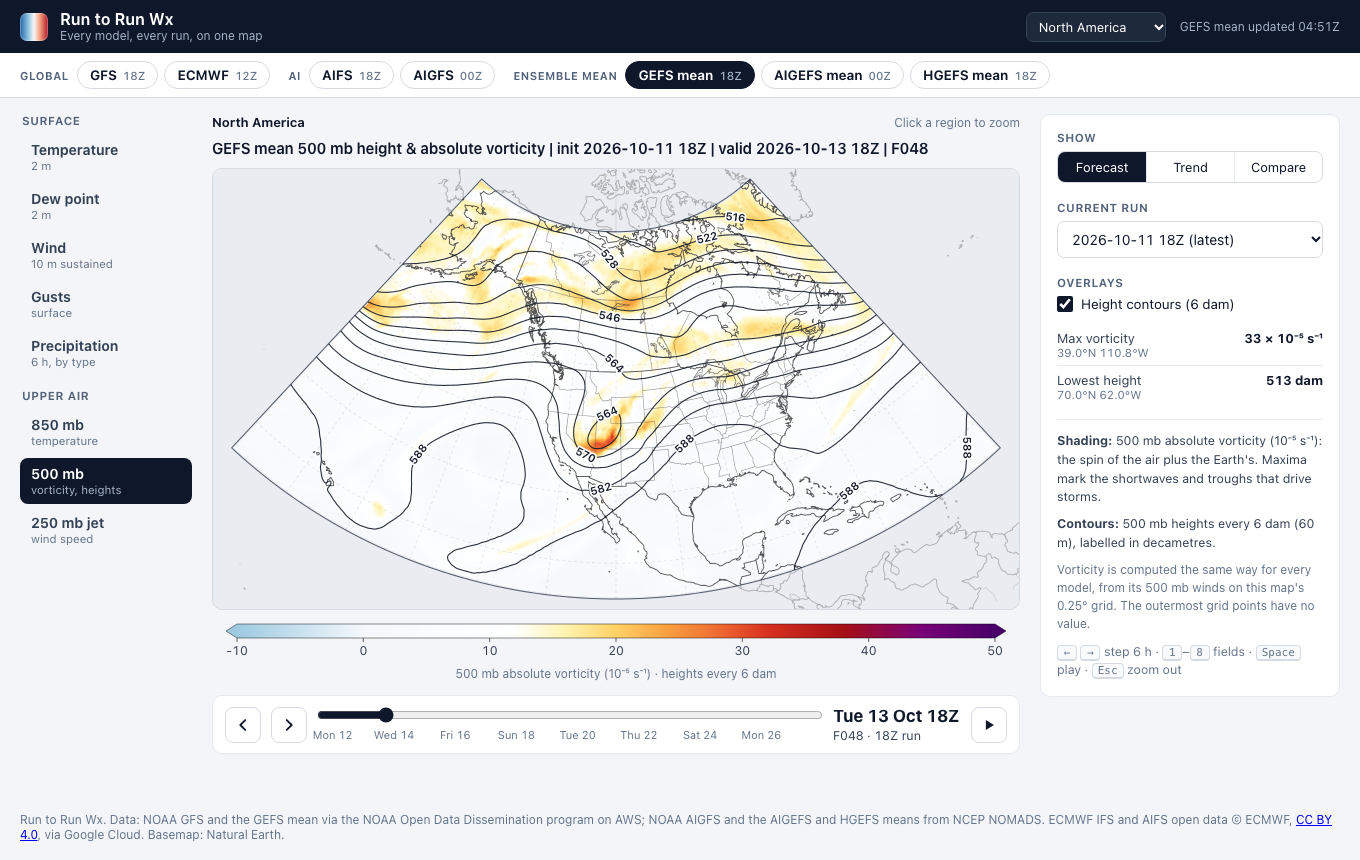
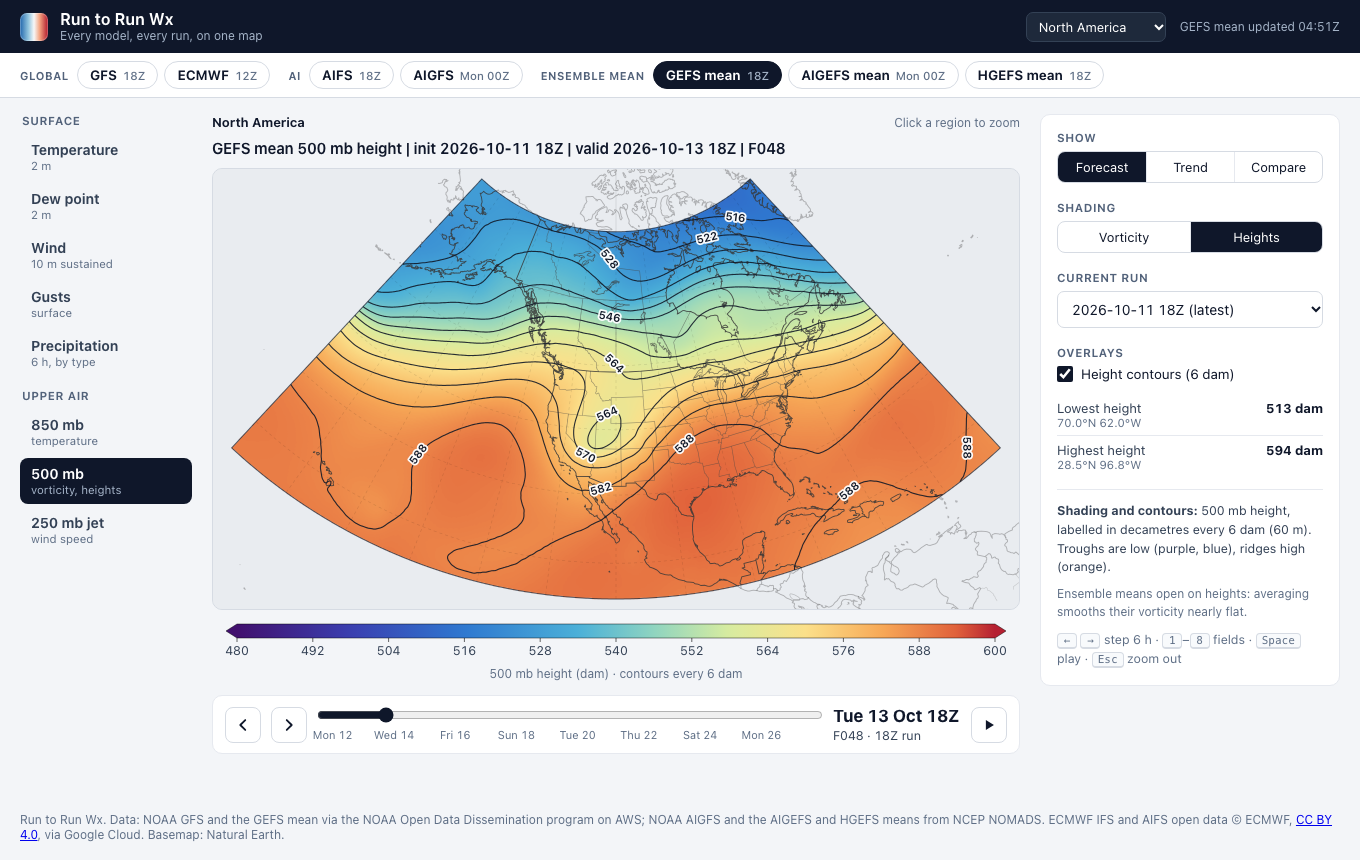
Bring docs up to date after M1, and refresh the screenshots
- README and the build plan's setup table: opening Workers & Pages once
  creates the workers.dev subdomain a Worker's cron needs; M1 setup ticked.
- adding-a-field.md: extreme()'s filter for region-limited stats,
  sidebar variables vs. an Options shading, the measured palette rule,
  and keeping the late-run rule in step with the scheduler.
- README's test list covers M1 and the scheduler.
- e2e: the clock sits just after the data's newest run so screenshots
  show fresh chips; the compare-run test reads runs from the manifests,
  so it passes on a full local dataset as well as CI's.
- Screenshots regenerated (new type palette, ensemble-mean heights).

diff --git a/web/e2e/viewer.spec.ts b/web/e2e/viewer.spec.ts
@@ -27,6 +27,13 @@ function trendHour(want: number, lag: number): number {
 }
 
 /** Collect anything that would show up as a problem in the console or network. */
+// The browser's clock sits just after the data's newest run, so model chips read as
+// fresh (today's run, not amber) whatever day the data was built: the screenshots
+// show the site as visitors see it. Tests about lateness set their own time.
+test.beforeEach(async ({ page }) => {
+  await page.clock.setFixedTime(new Date(initOf(manifest.latest).getTime() + 2 * 3600e3));
+});
+
 function watchForErrors(page: Page): string[] {
   const errors: string[] = [];
   page.on("console", (m) => {
@@ -611,28 +618,38 @@ test("compare mode shows two models side by side and their difference", async ({
 
 test("compare picks the other model's run, and says when the two runs are far apart", async ({ page }) => {
   const errors = watchForErrors(page);
-  // GFS 12Z at F024 beside ECMWF's own 12Z: same cycle
-  await page.goto("/?v=h500&run=2026101112&f=24&mode=compare&c=ecmwf&cv=side");
+  // Runs come from the manifests, so this works on the CI dataset and on a full local one
+  const gfs: string[] = manifestOf("gfs").runs.map((r: { id: string }) => r.id);
+  const ecmwf: string[] = manifestOf("ecmwf").runs.map((r: { id: string }) => r.id);
+  const fmt = (id: string) => `${id.slice(0, 4)}-${id.slice(4, 6)}-${id.slice(6, 8)} ${id.slice(8)}Z`;
+
+  // A GFS run beside ECMWF's own run of the same cycle
+  const twin = gfs.find((id) => ecmwf.includes(id))!;
+  await page.goto(`/?v=h500&run=${twin}&f=24&mode=compare&c=ecmwf&cv=side`);
   await ready(page, "forecast", "h500");
   await page.locator("#crun").selectOption("same");
   await ready(page, "forecast", "h500");
   await expect(page).toHaveURL(/crun=same/);
-  await expect(page.locator("#title-b")).toContainText("ECMWF · init 2026-10-11 12Z · F024");
-  // (The banner is the pinned link's "newer run available" note, not an age warning)
+  await expect(page.locator("#title-b")).toContainText(`ECMWF · init ${fmt(twin)} · F024`);
+  // (Any banner is a pinned link's "newer run available" note, not an age warning)
   await expect(page.locator("#banner")).not.toContainText("older than");
 
-  // GFS 18Z has no ECMWF twin (00/12Z only): the banner says why
-  await page.locator("#run").selectOption("2026101118");
+  // A 06/18Z GFS run has no ECMWF twin (00/12Z only): the banner says why
+  const offCycle = gfs.find((id) => +id.slice(8) % 12 !== 0)!;
+  await page.locator("#run").selectOption(offCycle);
   await ready(page, "forecast", "h500");
   await expect(page.locator("#banner")).toContainText("ECMWF has no frame valid");
-  await expect(page.locator("#banner")).toContainText("it has no 18Z run");
+  await expect(page.locator("#banner")).toContainText(`it has no ${offCycle.slice(8)}Z run`);
 
-  // A day-old ECMWF beside today's GFS: allowed, but flagged
-  await page.goto("/?v=h500&f=12&mode=compare&c=ecmwf&cv=diff&crun=2026101100");
+  // An ECMWF run a day or more older than GFS's latest: allowed, but flagged
+  const hours = (a: string, b: string) => (initOf(a).getTime() - initOf(b).getTime()) / 3600e3;
+  const old = ecmwf.find((id) => hours(gfs[0], id) >= 24 && hours(gfs[0], id) <= 36)!;
+  const f = hours(gfs[0], old) <= 24 ? 12 : 0;
+  await page.goto(`/?v=h500&f=${f}&mode=compare&c=ecmwf&cv=diff&crun=${old}`);
   await ready(page, "delta", "h500");
-  await expect(page.locator("#crun")).toHaveValue("2026101100");
+  await expect(page.locator("#crun")).toHaveValue(old);
   await expect(page.locator("#banner")).toHaveText(
-    "ECMWF's run is 24 h older than GFS's (GFS 2026-10-12 00Z, ECMWF 2026-10-11 00Z).",
+    `ECMWF's run is ${hours(gfs[0], old)} h older than GFS's (GFS ${fmt(gfs[0])}, ECMWF ${fmt(old)}).`,
   );
   // A picked run belongs to its model: changing model goes back to the newest
   await page.locator("#cmp").selectOption({ label: "AIFS" });

diff --git a/README.md b/README.md
@@ -207,7 +207,9 @@ Do these once:
    - Create a GitHub App (**Settings → Developer settings → GitHub Apps → New**) with the webhook
      off and repository permissions **Actions: read and write** and **Issues: read and write**.
      Note its App ID, generate a private key, and install it on this repository only.
-   - In Cloudflare, create an API token from the **Edit Cloudflare Workers** template.
+   - In Cloudflare, create an API token from the **Edit Cloudflare Workers** template, and open
+     **Workers & Pages** once: that creates the account's `workers.dev` subdomain, without which
+     Cloudflare won't set the Worker's cron (the Worker itself gets no public URL).
    - Add the repository secrets `CLOUDFLARE_API_TOKEN`, `SCHEDULER_APP_ID` and `SCHEDULER_APP_KEY`
      (the downloaded `.pem`, pasted whole). The account id is `R2_ACCOUNT_ID`.
    - **Actions → Scheduler → Run workflow** deploys it. Later deploys happen when `scheduler/` or
@@ -474,12 +476,15 @@ and the model files into the frontend.
 - **vitest** (`web/tests`):
   - the shared alignment and Δ vectors
   - decoding the shared Python-encoded frame fixture
-  - palettes and tick steps
+  - palettes and tick steps, and the precipitation-type palette's color distances (CIELAB ΔE,
+    with deuteranopia simulated)
+  - late-run chips: the run's day, and when the next run counts as late
   - barb geometry and local north
   - pressure centers (including plateaus and double maxima)
   - precipitation shading without interpolating type
   - every view in every mode and variable, built from synthetic fields, and the Fields sidebar list
-  - URL state, including old links (no `m`, no `v`, Phase 1's `f`)
+  - URL state, including old links (no `m`, no `v`, Phase 1's `f`), unpinned latest runs, the
+    compared model's run (`crun`), and the remembered last view
   - regions: the config, one hit area per state, point-in-region lookups, region-limited stats
 - **Playwright** (`web/e2e`), against the production build and real pipeline output (in CI, the
   small dataset from `make e2e-data`):
@@ -492,11 +497,20 @@ and the model files into the frontend.
     AIGFS or HGEFS falls back within its group
   - old links rewritten with a valid time
   - clicking a region and zooming out with <kbd>Esc</kbd>, with no frame requests or re-render
-  - compare mode, side by side and as a difference
+  - compare mode, side by side and as a difference; picking the other model's run (same cycle, a
+    missing cycle, a day-old run with its age banner)
+  - a bare URL opening 500 mb over Mainland US, then the visitor's last view
+  - late-run chips under a fixed clock; ensemble means opening 500 mb on heights, and a picked
+    shading sticking across models
   - the unavailable states, the hover readout, pinned links, field switching, and the older-run
     overlay
   - a 375 px phone: no overflow, bottom sheets, the pinned scrubber, tap-to-focus (screenshot)
-  - writes the screenshots in `docs/`
+  - writes the screenshots in `docs/`, with the clock set just after the data's newest run so the
+    chips read as fresh
+- **scheduler** (`scheduler/tests`, vitest): when each product's next cycle is due, when to
+  dispatch (behind, not running, not started in the last 30 minutes), opening and closing stale-data
+  issues, a whole tick against a fake GitHub and fake manifests, the installation-token cache, and
+  the App key's PKCS#1 → PKCS#8 wrapping and JWT (checked against Node's crypto)
 
 ## Credits
 

diff --git a/docs/build-plan.md b/docs/build-plan.md
@@ -67,9 +67,9 @@ are done (2026-10-11).
 | Before the Phase 3 push | ✓ Done 2026-10-12: the e2e fixture release [`e2e-fixtures-2026101200`](https://github.com/ChristopherWard13/Weather-Data-Viz/releases/tag/e2e-fixtures-2026101200) (`e2e-fixtures.tar.gz`, SHA-256 pinned in the `Makefile`). A new bundle means a new release and tag |
 | Before the Phase 3 products go live | ✓ Done 2026-10-12: a one-off NOMADS probe passed on a GitHub runner, then was deleted |
 | After the Phase 3 push | ✓ Done 2026-10-12: **Actions → AIGFS / GEFS mean / AIGEFS mean / HGEFS mean → Run workflow** once each; all four filled their 9-run windows in R2 |
-| Phase 3.5, M1 (scheduler) | Create a **GitHub App** (GitHub → Settings → Developer settings → GitHub Apps → New): any name (e.g. `runtorunwx-scheduler`), homepage `https://runtorunwx.com`, webhook **off**, repository permissions **Actions: read and write** and **Issues: read and write**, installable only on this account. Note its **App ID**, generate a **private key** (a `.pem` downloads), then **Install App** on this repository only |
-| Phase 3.5, M1 (scheduler) | In Cloudflare, create an **API token** from the "Edit Cloudflare Workers" template, limited to this account |
-| Phase 3.5, M1 (scheduler) | Add GitHub Actions secrets: `CLOUDFLARE_API_TOKEN`, `SCHEDULER_APP_ID`, and `SCHEDULER_APP_KEY` (the whole `.pem`, pasted as downloaded). The account id is the existing `R2_ACCOUNT_ID`. Then **Actions → Scheduler → Run workflow** once to deploy the Worker |
+| Phase 3.5, M1 (scheduler) | ✓ Done 2026-10-12. Create a **GitHub App** (GitHub → Settings → Developer settings → GitHub Apps → New): any name (e.g. `runtorunwx-scheduler`), homepage `https://runtorunwx.com`, webhook **off**, repository permissions **Actions: read and write** and **Issues: read and write**, installable only on this account. Note its **App ID**, generate a **private key** (a `.pem` downloads), then **Install App** on this repository only |
+| Phase 3.5, M1 (scheduler) | ✓ Done 2026-10-12. In Cloudflare, create an **API token** from the "Edit Cloudflare Workers" template, limited to this account. Open **Workers & Pages** once, which creates the account's `workers.dev` subdomain: without it Cloudflare refuses to set a Worker's cron |
+| Phase 3.5, M1 (scheduler) | ✓ Done 2026-10-12. Add GitHub Actions secrets: `CLOUDFLARE_API_TOKEN`, `SCHEDULER_APP_ID`, and `SCHEDULER_APP_KEY` (the whole `.pem`, pasted as downloaded). The account id is the existing `R2_ACCOUNT_ID`. Then **Actions → Scheduler → Run workflow** once to deploy the Worker |
 | Phase 6 | Commit and push the `Forecast-Fantasy-League` repo, whose venue list Phase 6 reads |
 
 ## Decisions at a glance

diff --git a/docs/adding-a-field.md b/docs/adding-a-field.md
@@ -399,8 +399,16 @@ checked 2026-10-12. See the build plan's "NOAA AI and ensemble sources".
   names in compare mode) rather than hard-coded words.
 - **Stats follow the region in focus.** Pass `inp` to `extreme(values, inp,
   sign)`: it searches the focused region's box (`inp.focus`), or the whole
-  grid at North America. Contours, centers and shading still cover the whole
-  grid; focusing only refits the projection.
+  grid at North America. For a stat over some points only, pass a filter
+  (`extreme(qpf, inp, 1, (k) => FROZEN_TYPES.has(...))` for "Max frozen")
+  rather than looping over the grid yourself, which ignores the focus.
+  Contours, centers and shading still cover the whole grid; focusing only
+  refits the projection.
+- **Variables: sidebar items or a Shading choice.** A view's `variables` are
+  separate Fields sidebar items when `FIELD_ITEMS` lists one per variable
+  (Temperature and Dew point). When it lists the view once (500 mb), they're
+  a "Shading" choice in Options instead, and `main.ts` picks the per-model
+  default (ensemble means open 500 mb on heights) until the viewer chooses.
 - **Pick a trend quantity that's signal, not noise.** Run-to-run differences
   of a noisy field (vorticity) are mostly noise, so the 500 mb trend shades
   Δ height and keeps vorticity for forecast mode.
@@ -439,6 +447,17 @@ checked 2026-10-12. See the build plan's "NOAA AI and ensemble sources".
   Trend palettes are symmetric: RdBu reversed for "more is red" quantities,
   BrBG for precipitation. `tickStep` always divides the limit, so ticks land
   on 0 and both ends.
+- **Categorical palettes are measured, not eyeballed.** Precipitation type has
+  6 bins per type (`QPF_BINS`), and `palettes.test.ts` checks every pair of
+  colors from different types: CIELAB ΔE76 ≥ 15 with normal vision, ≥ 12 with
+  deuteranopia simulated (Machado 2009), each type's lightest bin ≥ 20 off the
+  dry color (`PRECIP_DRY`), and ≥ 10 between a type's neighbouring bins. Run it
+  after any color change; warm tans and rain greens collide under
+  deuteranopia, which is why sleet is a grey taupe.
 - **Units in the UI.** Say what the number is and over what period, e.g. "6-h
   precipitation (in, liquid equivalent)", "6 h ending …". Hover readouts show
-  the raw grid-point value.
+  the raw grid-point value. Say a thing once: if the legend explains it (type
+  not available), the caption doesn't repeat it.
+- **Late runs.** A chip turns amber by `web/src/freshness.ts`, the same rule the
+  scheduler uses to dispatch (`scheduler/src/freshness.ts`): the next cycle's
+  init plus the model's `latency_minutes`. Change one, change both.
